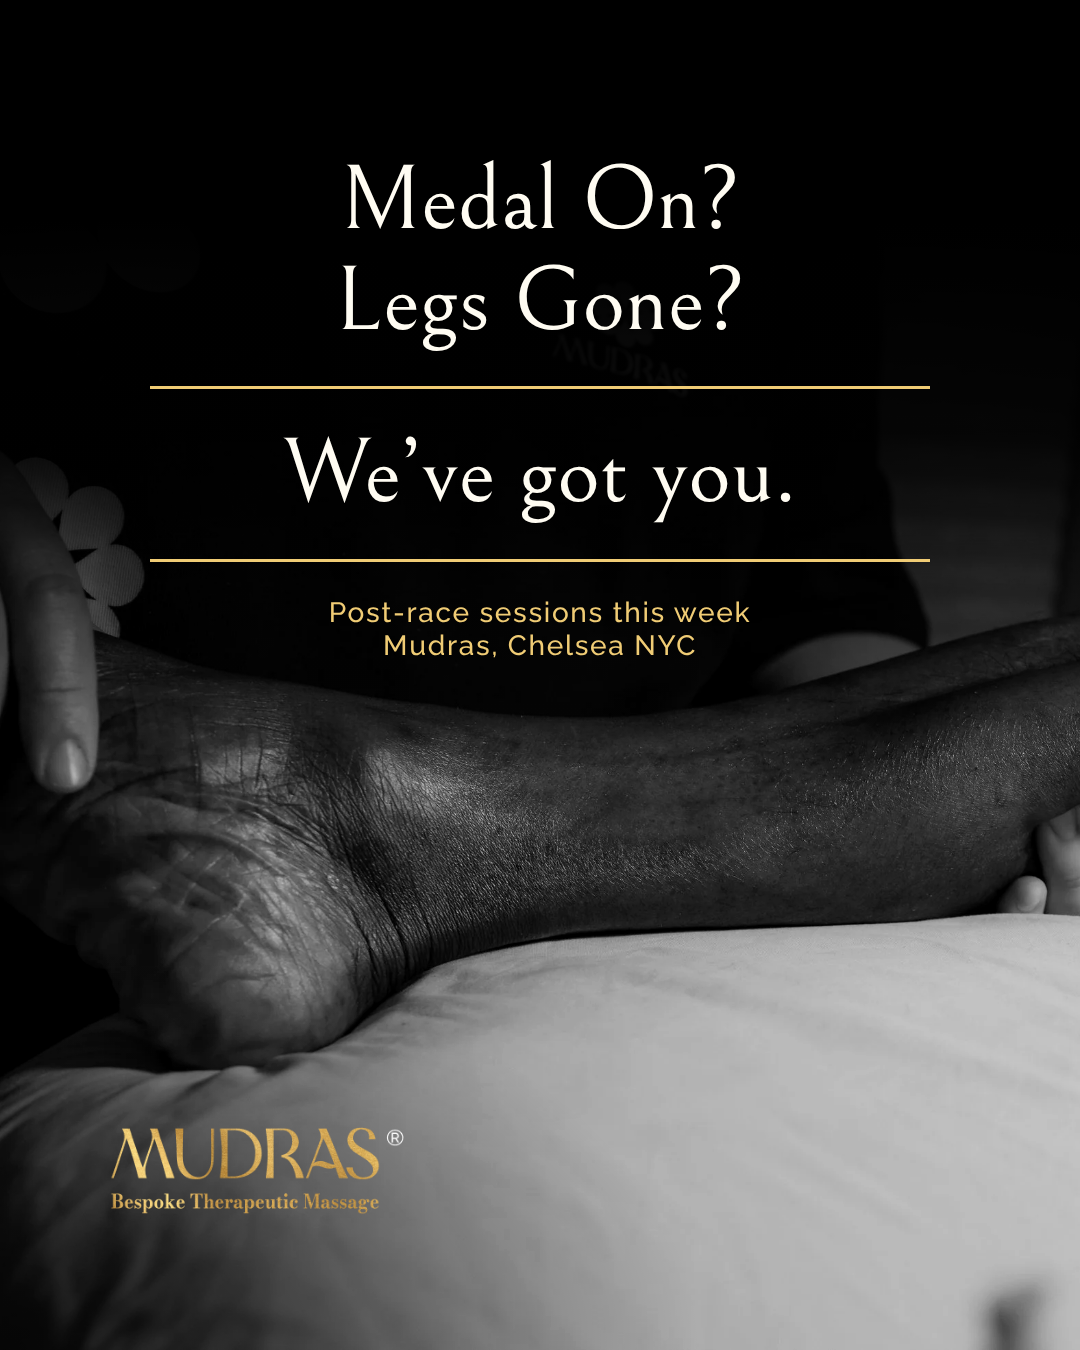
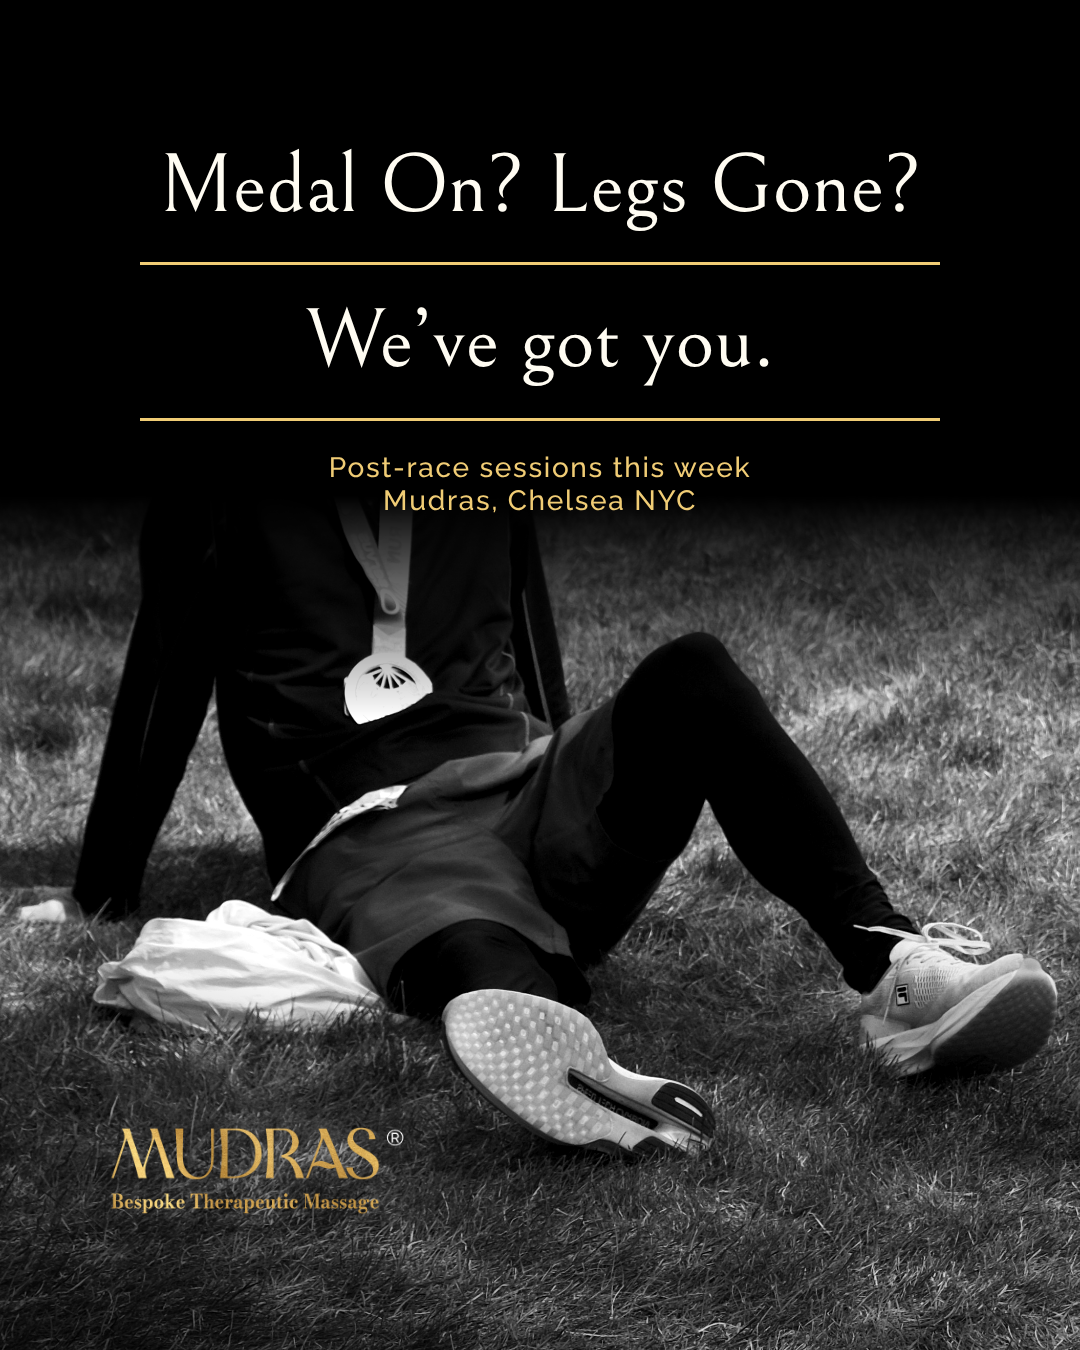
Mudras post-race post: swap to medal + tired legs photo to match the copy
Claude-Session: https://claude.ai/code/session_01WnXcuRrGu4zGnnykNFmZUS

diff --git a/deliverables/mudras/source/design/medal-legs.html b/deliverables/mudras/source/design/medal-legs.html
@@ -18,21 +18,21 @@ body.notext .t{visibility:hidden}
 .photo{position:absolute;inset:0;background-repeat:no-repeat;filter:grayscale(1) contrast(1.08)}
 /* only the top is shaded, behind the copy */
 .shade{position:absolute;inset:0;background:linear-gradient(180deg,rgba(0,0,0,.92) 0%,rgba(0,0,0,.86) 32%,rgba(0,0,0,0) 58%)}
-.copy{position:absolute;left:150px;right:150px;top:150px;text-align:center}
+.copy{position:absolute;left:140px;right:140px;top:140px;text-align:center}
 .serif{font-family:var(--serif);font-weight:400;line-height:1.1}
-.rule{height:3px;background:var(--gold);margin:34px 0}
+.rule{height:3px;background:var(--gold);margin:30px 0}
 .sub{font-family:var(--sans);font-weight:500;letter-spacing:.06em;color:var(--gold)}
 .logo img{width:100%;display:block}
 </style></head><body>
 
 <div class="ab p45" id="fb_medal">
-  <div class="photo" style="top:auto;height:1130px;background-image:url(../img/medal_leg_session.jpg);background-size:auto 1130px;background-position:0px 100%;-webkit-mask-image:linear-gradient(180deg,transparent 0%,#000 30%);mask-image:linear-gradient(180deg,transparent 0%,#000 30%)"></div>
-  <div class="shade"></div>
+  <div class="photo" style="top:auto;height:854px;background-image:url(../img/medal_grass.jpg);transform:scaleX(-1);background-size:100% auto;background-position:50% 100%;-webkit-mask-image:linear-gradient(180deg,transparent 0%,#000 26%);mask-image:linear-gradient(180deg,transparent 0%,#000 26%)"></div>
+  <div class="shade" style="background:linear-gradient(180deg,rgba(0,0,0,0) 0%,rgba(0,0,0,0) 100%)"></div>
   <div class="shade" style="background:radial-gradient(ellipse 700px 420px at 0% 100%,rgba(0,0,0,.7),rgba(0,0,0,0))"></div>
   <div class="copy">
-    <div class="serif t" style="font-size:92px">Medal On?<br>Legs Gone?</div>
+    <div class="serif t" style="font-size:84px;white-space:nowrap">Medal On? Legs Gone?</div>
     <div class="rule"></div>
-    <div class="serif t" style="font-size:92px">We&rsquo;ve got you.</div>
+    <div class="serif t" style="font-size:84px">We&rsquo;ve got you.</div>
     <div class="rule"></div>
     <div class="sub t" style="font-size:28px">Post-race sessions this week<br>Mudras, Chelsea NYC</div>
   </div>

diff --git a/deliverables/mudras/post-race-medal-on-legs-gone/caption-and-image-link.md b/deliverables/mudras/post-race-medal-on-legs-gone/caption-and-image-link.md
@@ -17,11 +17,17 @@ Post-race sessions this week · Mudras, Chelsea NYC
 ## Image used
 | Image | Source | Link |
 |---|---|---|
-| A therapist's hands supporting a runner's heel and calf on the table (no face) | Mudras website, sports massage page | https://images.squarespace-cdn.com/content/v1/68c4a7c58fe04131b7cf10fa/50db79ba-54ca-428f-92dc-e11f4156a0b9/Sports+Massage+session+by+Mudras+in+NYC.jpg |
+| A runner sitting on the grass after a race, with a medal on and legs stretched out | Unsplash (free under the Unsplash License, commercial use allowed) | https://unsplash.com/photos/SSiXQyqFSB4 |
 
-The photo appears on https://www.mudras.com/sports-massage-nyc.
+Direct download: https://images.unsplash.com/photo-1779658232626-0a8975698573
 
-I passed on the Unsplash medal photos because they all show other races' names and sponsor logos (Rotterdam, Lagos, Kyiv and others).
+Edits to the photo:
+- cropped below the chin, so no face shows
+- the people and the event tent in the background are cropped out
+- flipped horizontally, so the logo sits on clear grass
+- converted to black and white
+
+A small FILA mark is still visible on one shoe.
 
 ## Caption
 Ran yesterday? Cheered for 6 hours? Either way, your legs earned a reset. 😅🏅
